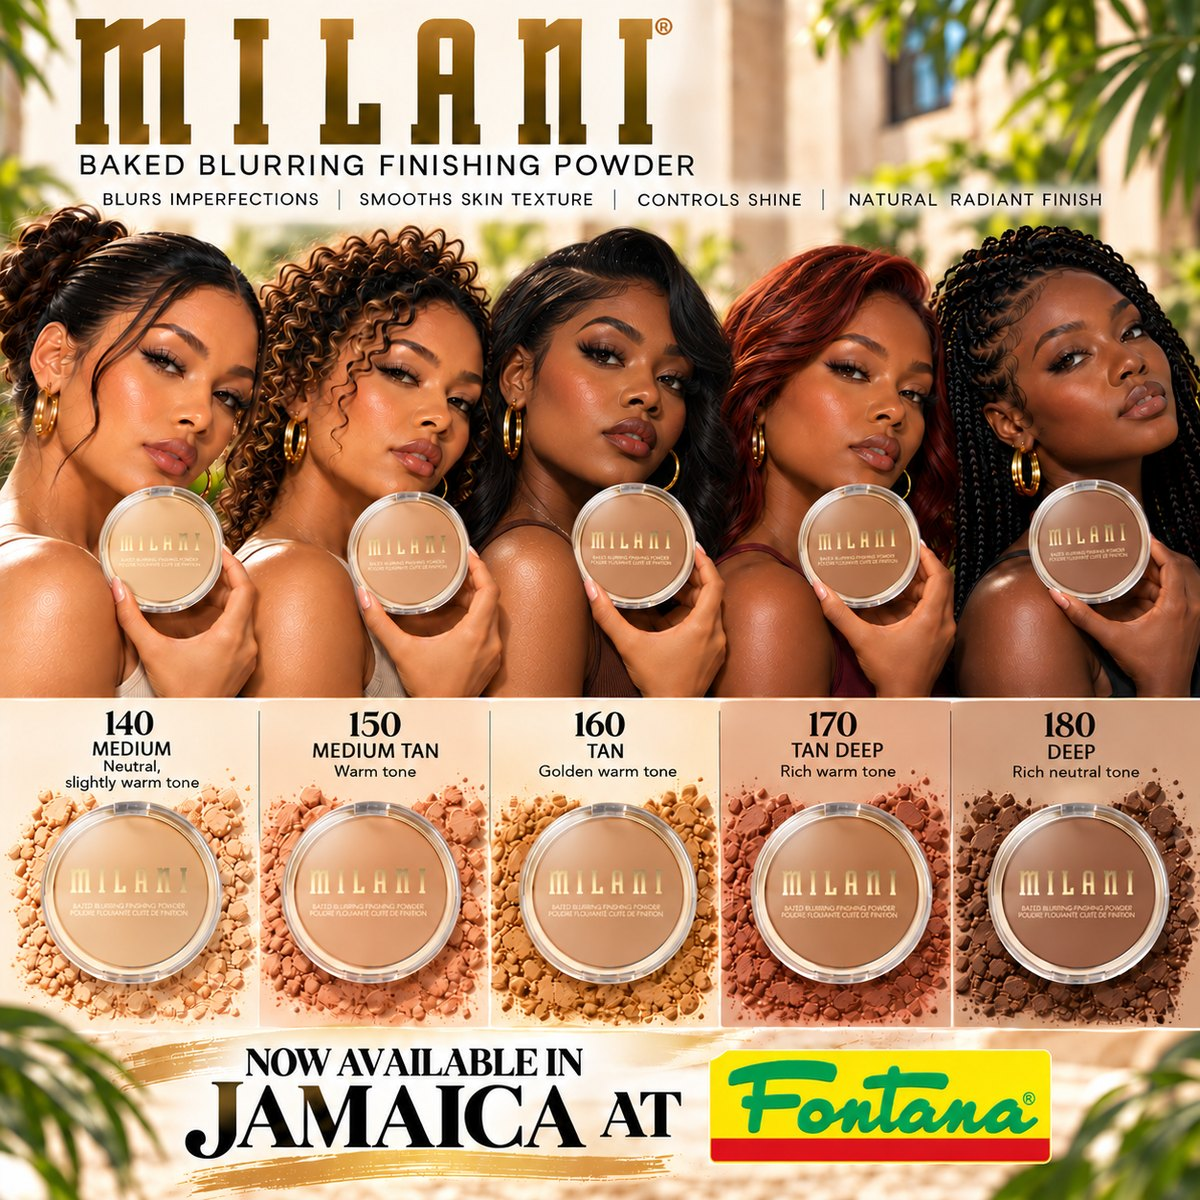
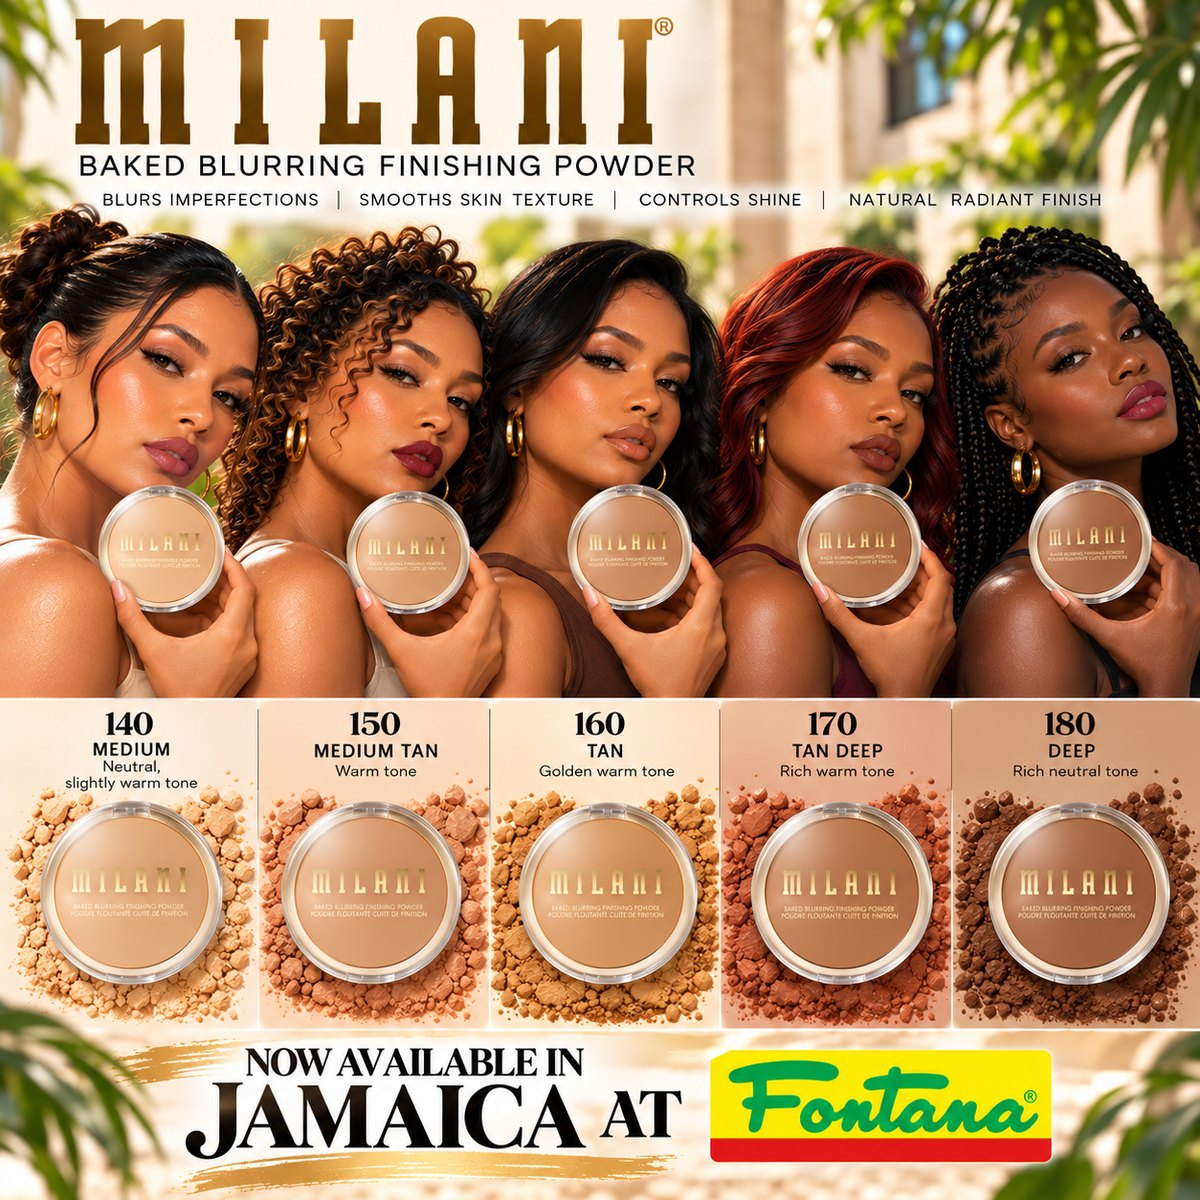
Hero image: final faces version

diff --git a/index.html b/index.html
@@ -340,7 +340,7 @@ function px(ev,params,custom){try{fbq(custom?'trackCustom':'track',ev,params||{}
   <div class="mark foil">MILANI</div>
   <div class="lock2">COSMETICS</div>
   <div class="lock3"><svg class="flag" viewBox="0 0 12 6" role="img" aria-label="Jamaican flag"><rect width="12" height="6" fill="#009b3a"/><path d="M0 0L6 3L0 6ZM12 0L6 3L12 6Z" fill="#000"/><path d="M0 0L12 6M12 0L0 6" stroke="#fed100" stroke-width="1"/></svg><span>JAMAICA</span><svg class="flag" viewBox="0 0 12 6" role="img" aria-label="Jamaican flag"><rect width="12" height="6" fill="#009b3a"/><path d="M0 0L6 3L0 6ZM12 0L6 3L12 6Z" fill="#000"/><path d="M0 0L12 6M12 0L0 6" stroke="#fed100" stroke-width="1"/></svg></div>
-  <figure><img src="hero.jpg?v=6" alt="Five women holding Milani Baked Blurring Finishing Powder, shades 140 to 180, now available in Jamaica at Fontana" onerror="this.parentNode.remove()"></figure>
+  <figure><img src="hero.jpg?v=7" alt="Five women holding Milani Baked Blurring Finishing Powder, shades 140 to 180, now available in Jamaica at Fontana" onerror="this.parentNode.remove()"></figure>
 </div>
 
 <div class="steps3" aria-label="How it works"><span><i>1</i>Tap a shade</span><span><i>2</i>Save your list</span><span><i>3</i>Show it in store</span></div>
